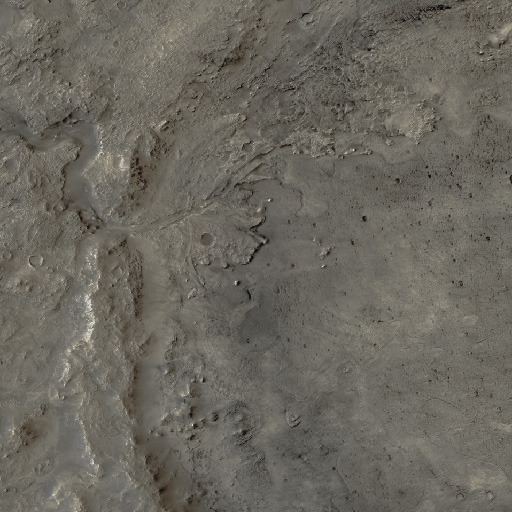
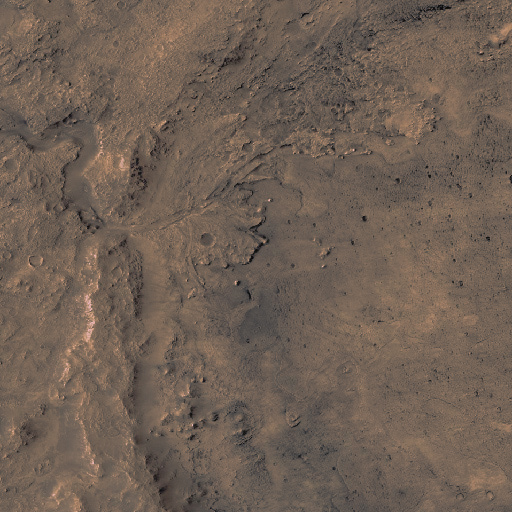
tuning sky etc

diff --git a/rover3d/index.html b/rover3d/index.html
@@ -327,9 +327,10 @@
           cameraFOV: 50,
         },
         scene: {
-          surfaceColor:  0xb6a089,
+          surfaceColor:  0xa7886e,
           showHaze:   true,
           fogDist:    12000,
+          fogColor:   0xa7886e,
           //terrainTextureResolution: (ismobile?'2m':'1m'),
           terrainTextureResolution: '2m',
           terrainHscale: 8,    //m/px, horizontal grid spacing of terrain height map
@@ -348,23 +349,23 @@
           height: -0.01,
         },
         sky: {
-					turbidity: 4,
-					rayleigh: 0.025,
-					mieCoefficient: 0.001,
-					mieDirectionalG: 0.7,
-          diffuseLightColor:     0xffe7d3,
-          initialDiffuseLightIntensity: 0.6,
+					turbidity:          1.0,
+					rayleigh:           0.01,
+					mieCoefficient:     0.0005,
+					mieDirectionalG:    0.9,
+          diffuseLightColor:  0xffe7d3,
+          initialDiffuseLightIntensity: 0.5,
         },
         sun: {
           az: -90, 
-          el: 60, 
+          el: 45, 
           dist: 20000, 
           x:0, 
           y:0, 
           z:0, 
           intensity:     0.75,
-          lightColor:    0xfed495,
-          maxIntensity:  0.9,
+          lightColor:    0xffe2b7,
+          maxIntensity:  1.0,
           minLightFraction: 0.01,  //light intensity with sun at zero el
           maxElQuadraticLight: 15, //deg below which light falls off quadratically
         }
@@ -424,16 +425,17 @@
 
 				scene = new THREE.Scene();
         window.scene = scene;
-        scene.fog = new THREE.Fog(0xc3a17f, 0.1, options["scene"].showHaze ? options["scene"].fogDist : 0 );
+        scene.fog = new THREE.Fog(options["scene"].fogColor, 0.1, options["scene"].showHaze ? options["scene"].fogDist : 0 );
         //scene.background = new THREE.Color( options.skyColor );
 
 
 				camera = new THREE.PerspectiveCamera( options["tools"].cameraFOV, window.innerWidth / window.innerHeight, 0.1, 20000 );
         camera.up.set( 0, 0, -1 );
-        camera.lookAt(0,0,-1.25);
+        camera.lookAt(0,0,-1.5);
 				//camera.position.set( 3.6, -0.1, -0.65 );
         //camera.position.set( 3.6, 0, -0.65 );
-        camera.position.set( 4, 2, -1.4 );
+        //camera.position.set( 4, 2, -1.4 );
+        camera.position.set( -2, 10, -4 );
         window.camera = camera;
                 
                 
@@ -584,8 +586,8 @@
         makeTerrain({
           urlHeightMap: 'images/JEZ_ctx_B_soc_008_DTM_MOLAtopography_DeltaGeoid_20m_rescale240m_centerReduced.tif',  // must be 16-bit grayscale tif
           hscale:   240*0.96,    // m/px
-          vscale:   7,  // m/dn
-          offset:   new THREE.Vector3(1300, -1300, 330),
+          vscale:   6,  // m/dn
+          offset:   new THREE.Vector3(1300, -1300, 250),
           rotation: new THREE.Vector3(-1*Math.PI, 0, -1*Math.PI/2),
           color:    options["scene"].surfaceColor,
           onload: function(mesh){
@@ -1166,25 +1168,31 @@
 
 
       function placeSun(){
+        const minEl = -2;
         var sunX = options["sun"].dist * Math.cos(options["sun"].el * deg2rad) * Math.cos(options["sun"].az * deg2rad) ;
         var sunY = options["sun"].dist * Math.cos(options["sun"].el * deg2rad) * Math.sin(options["sun"].az * deg2rad);
-        var sunZ = -1 * options["sun"].dist * Math.sin(Math.max(-0.5,options["sun"].el) * deg2rad);
+        var sunZ = -1 * options["sun"].dist * Math.sin(Math.max(minEl,options["sun"].el) * deg2rad);
         sun.pos.set(sunX, sunY, sunZ);
         sun.lights.position.set(sunX, sunY, sunZ);
 				sky.material.uniforms[ "sunDirection" ].value.copy( sun.pos.normalize() );
         var intensityMultiplier = 1;
         var sunEl = Math.max(0, options["sun"].el<90? options["sun"].el : 180-options["sun"].el);
-        if(sunEl<20){
+        if(sunEl<options["sun"].maxElQuadraticLight){
           // Quadratic extinction
-          var intensityMultiplier = sun.extinctionCoeffs[0]*sunEl*sunEl + sun.extinctionCoeffs[1]*sunEl + sun.extinctionCoeffs[2];
+          intensityMultiplier = sun.extinctionCoeffs[0]*sunEl*sunEl + sun.extinctionCoeffs[1]*sunEl + sun.extinctionCoeffs[2];
         }
+        console.log("intensityMultiplier: " + intensityMultiplier);
         diffuselight.intensity = options["sky"].initialDiffuseLightIntensity * intensityMultiplier * intensityMultiplier;
         options["sun"].intensity = options["sun"].maxIntensity * intensityMultiplier;
         sun.light1.intensity = options["sun"].intensity;
         sun.light2.intensity = options["sun"].intensity;
-        scene.fog.color = new THREE.Color(options["scene"].surfaceColor).multiplyScalar(intensityMultiplier*0.65);
+        
+        //Update fog:
+        options["scene"].fogColor = interpHex(options["scene"].surfaceColor, options["sky"].diffuseLightColor, 0.5);  // blend of terrain and diffuse light color
+        scene.fog.color = new THREE.Color(options["scene"].fogColor).multiplyScalar(intensityMultiplier*intensityMultiplier*0.5);
         render();
       }
+
 
       function tiltRover(){
         var newAttitude = new THREE.Vector3(
@@ -1209,6 +1217,17 @@
         render();
       }
 
+
+      function interpHex(hex1, hex2, ratio){
+        const rgb1 = hex1.toString(16).padStart(6, '0').match(/.{1,2}/g);
+        const rgb2 = hex2.toString(16).padStart(6, '0').match(/.{1,2}/g);
+        var hex = [];
+        for(var i=0; i<3; i++){
+          hex[i] = Math.ceil(parseInt(rgb1[i],16)*(1-ratio) + parseInt(rgb2[i],16)*ratio).toString(16).padStart(2, '0');
+        }
+        console.log([rgb1, rgb2, hex])
+        return parseInt('' + hex[0] + hex[1] + hex[2], 16);
+      }
 
 
       function createCoordAxes(parent, vector_length, frame_name = "coord_frame"){ 
@@ -1454,12 +1473,12 @@
           routes.visible = val;
           render(); 
         });
-        folder["tools"].add(options["tools"], 'cameraFOV', 15, 120).name("Camera FOV").onChange(function(val){setCameraFOV(val)});
+        folder["tools"].add(options["tools"], 'cameraFOV', 5, 120).name("Camera FOV").onChange(function(val){setCameraFOV(val)});
 
         
         folder["scene"] = gui.addFolder('Scene');
         folder["scene"].add(options["sun"], 'az', -179.9, 180.1).listen().name("Sun azimuth").onChange(placeSun);
-        folder["scene"].add(options["sun"], 'el', -0.5, 180.5).listen().name("Sun elevation").onChange(placeSun);
+        folder["scene"].add(options["sun"], 'el', 0, 182).listen().name("Sun elevation").onChange(placeSun);
         folder["scene"].add(options["sun"], 'intensity', 0.001, 0.999).listen().name("Sunlight intensity").onChange(function(val){
           sun.light1.intensity = val;
           sun.light2.intensity = val;
@@ -1468,14 +1487,14 @@
         folder["scene"].addColor(options["sun"],'lightColor').name("Sunlight color").onChange(function(val){
           sun.light1.color.set(val);
           sun.light2.color.set(val); 
-          render();
+          placeSun(); //updates fog and renders
         });
-        folder["scene"].add(diffuselight, 'intensity', 0.001, 0.999).listen().name("Diffuse light").onChange(render);
+        folder["scene"].add(diffuselight, 'intensity', 0.001, 0.999).listen().name("Diffuse light").onChange(render); 
         folder["scene"].addColor(options["sky"],'diffuseLightColor').name("Diffuse light color").onChange(function(val){diffuselight.color.set(val); render()});
         //folder["scene"].addColor(options["scene"],'surfaceColor').name("Surface color").onChange(function(val){groundPlane.material.color.set(val); render()});
         folder["scene"].addColor(options["scene"],'surfaceColor').name("Surface color").onChange(function(val){
           terrain.material.color.set(val); 
-          terrain2.material.color.set(val); 
+          terrain2.material.color.set(val);
           placeSun(); //updates fog and renders
         });
         folder["scene"].add(options["scene"], 'terrainTextureResolution', terrainTextureResolutions).name('Resolution').onChange(function(val){setTerrainTexture(terrain, val)});

diff --git a/rover3d/js/Sky.js b/rover3d/js/Sky.js
@@ -74,12 +74,12 @@ Sky.SkyShader = {
 		'const float pi = 3.141592653589793238462643383279502884197169;',
     'const float piOver2 = 1.57079632679;',
 
-    'const vec3 totalRayleigh = vec3( 3.4E-4, 2.0E-4, 0.9E-4 );',  // RK: Rayleight scatter color (main sky color)
+    'const vec3 totalRayleigh = vec3( 3.2E-4, 2.4E-4, 1.9E-4 );',  // RK: Rayleight scatter color (main sky color)
 
-		'const vec3 MieConst = vec3( 1.6, 3.6, 6.1 );',  // RK: Mie scattering "color"
+		'const vec3 MieConst = vec3( 0.5, 2.6, 5.1 );',  // RK: Mie scattering "color"
 
-    'const float sunIntensityVsElevation = 1.0;', //(~1-10) (1.5 orig, 2.5 mars) RK: affects sky brightness vs sun elevation, higher=brighter
-		'const float sunIntensityZenith = 400.0;',  //(1.0-4000.0) RK: sky brightness scalar
+    'const float sunIntensityVsElevation = 1.8;', //(~1-10) RK: affects sky brightness vs sun elevation, higher value falls off faster near horizon
+		'const float sunIntensityZenith = 1500.0;',  //(1.0-4000.0) RK: sky brightness scalar
     
 
 		'void main() {',
@@ -88,8 +88,9 @@ Sky.SkyShader = {
 		'	vWorldPosition = worldPosition.xyz;',
 		'	gl_Position = projectionMatrix * modelViewMatrix * vec4( position, 1.0 );',
 		'	gl_Position.z = gl_Position.w;',
-		'	float zenithAngleCos = clamp( dot( sunDirection, up ), -1.0, 1.0);',
-    '	vSunE = sunIntensityZenith * max( 0.0, 1.0 - pow( e, -( ( piOver2 - acos( zenithAngleCos ) ) / sunIntensityVsElevation ) ) );',
+		//'	float zenithAngleCos = clamp( dot( sunDirection, up ), -1.0, 1.0);',
+    '	float zenithAngleCos = dot( sunDirection, up );',
+    '	vSunE = sunIntensityZenith * max( 0.0, 1.0 - pow( e, -( ( piOver2 +0.15 - acos( zenithAngleCos ) ) / sunIntensityVsElevation ) ) );',
 		'	vSunfade = 1.0 - clamp( 1.0 - exp( ( -1.0 * sunDirection.z ) ), 0.0, 1.0 );',
 
 		'	float rayleighCoefficient = rayleigh - ( 1.0 * ( 1.0 - vSunfade ) );',
@@ -119,11 +120,11 @@ Sky.SkyShader = {
 
 
 		// optical length at zenith
-		'const float rayleighZenithLength   = 4.0E3;',   //RK: affects Rayleigh scattering intensity (10.0E3)
+		'const float rayleighZenithLength   = 1.0E3;',   //RK: affects Rayleigh scattering intensity (10.0E3)
 		'const float mieZenithLength        = 1.0E3;',   //RK: affects Mie scattering intensity (5.0E3)
 
     // sun disk
-    'const float sunAngularDiameterCos  = 0.99998;',  //RK: higher value = smaller sun disk
+    'const float sunAngularDiameterCos  = 0.999985;',  //RK: higher value = smaller sun disk
 
 
 		'float rayleighPhase( float cosTheta ) {',
@@ -150,7 +151,8 @@ Sky.SkyShader = {
 		'	vec3 Fex = exp( -( vBetaR * sR + vBetaM * sM ) );',
 
 		// in-scattering
-		'	float cosTheta = clamp(dot( direction, sunDirection ), 0.0, 1.0);',
+		//'	float cosTheta = clamp(dot( direction, sunDirection ), 0.0, 1.0);',
+    ' float cosTheta = dot( direction, sunDirection );',
 
 		'	float rPhase = rayleighPhase( cosTheta * 0.5 + 0.5 );',
 		'	vec3 betaRTheta = vBetaR * rPhase;',
